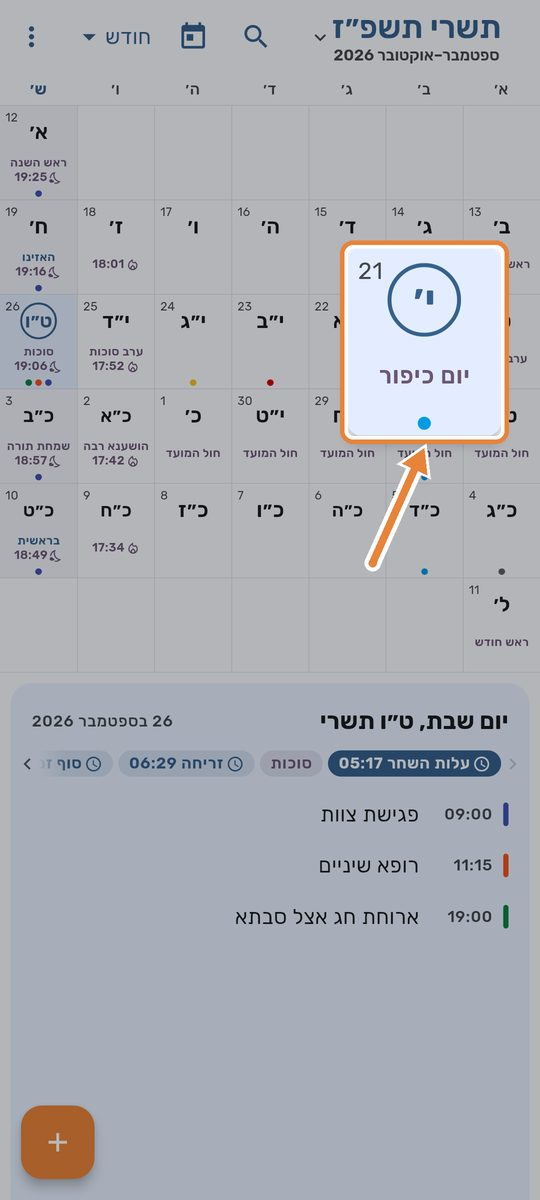
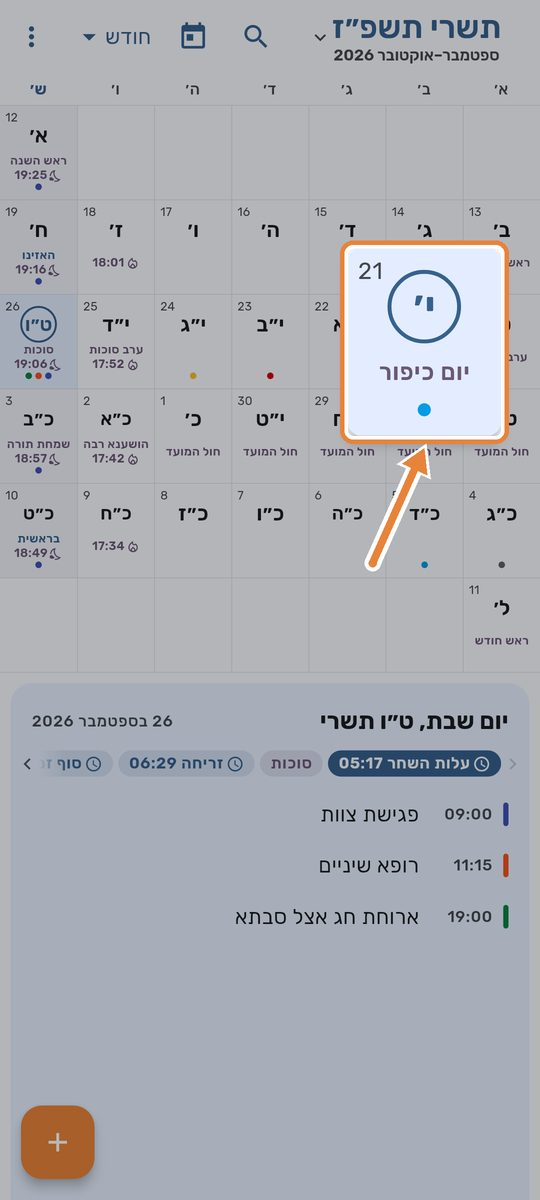
feat(month): the day's letters and dots a little in from the cell edges (sketch 59, option B); guide screenshots refreshed
Claude-Session: https://claude.ai/code/session_017zUec374jeHgpuCg7de9BM

diff --git a/docs/PROGRESS.md b/docs/PROGRESS.md
@@ -5,9 +5,9 @@
 (שיתוף והעשרה) נדחה בהחלטת משתמש — ראה WISHLIST.md. (ראה אבני דרך
 ב-ARCHITECTURE.md §9)
 
-## 2026-10-15 — משבצת החודש: אותיות היום באותו גובה (סקיצה 58)
+## 2026-10-15 — משבצת החודש: אותיות היום באותו גובה (סקיצות 58–59)
 
-- `DayCell`: אותיות היום (או המספר הלועזי) צמודות למעלה בגובה קבוע, הנקודות צמודות לתחתית, והחג/הפרשה וזמן השבת באמצע, מתכווצים לשטח שנשאר. לפני כן העמודה כולה הייתה ממורכזת והאותיות קפצו לפי כמות הטקסט (צילום מהמכשיר). שורה נמוכה מדי חוזרת לפריסה הממורכזת המוקטנת. 2 טסטים ב-`day_cell_layout_test.dart` (נכשלים על הפריסה הקודמת), 527 בסך הכל. תמונות המדריך צולמו מחדש.
+- `DayCell`: אותיות היום (או המספר הלועזי) צמודות למעלה בגובה קבוע, הנקודות צמודות לתחתית, והחג/הפרשה וזמן השבת באמצע, מתכווצים לשטח שנשאר. לפני כן העמודה כולה הייתה ממורכזת והאותיות קפצו לפי כמות הטקסט (צילום מהמכשיר). המיקום יחסי לגובה המשבצת: 12% מעל האותיות ו-10% מתחת לנקודות (סקיצה 59, דרגה ב', אושרה; צמוד לקצוות נראה לא טוב, ויותר פנימה מכווץ את הפרשה וזמן השבת). שורה נמוכה מדי חוזרת לפריסה הממורכזת המוקטנת. 2 טסטים ב-`day_cell_layout_test.dart` (נכשלים על הפריסה הקודמת), 527 בסך הכל. תמונות המדריך צולמו מחדש.
 
 ## 2026-10-15 — גודל טקסט בהגדרות (סקיצה 57)
 
